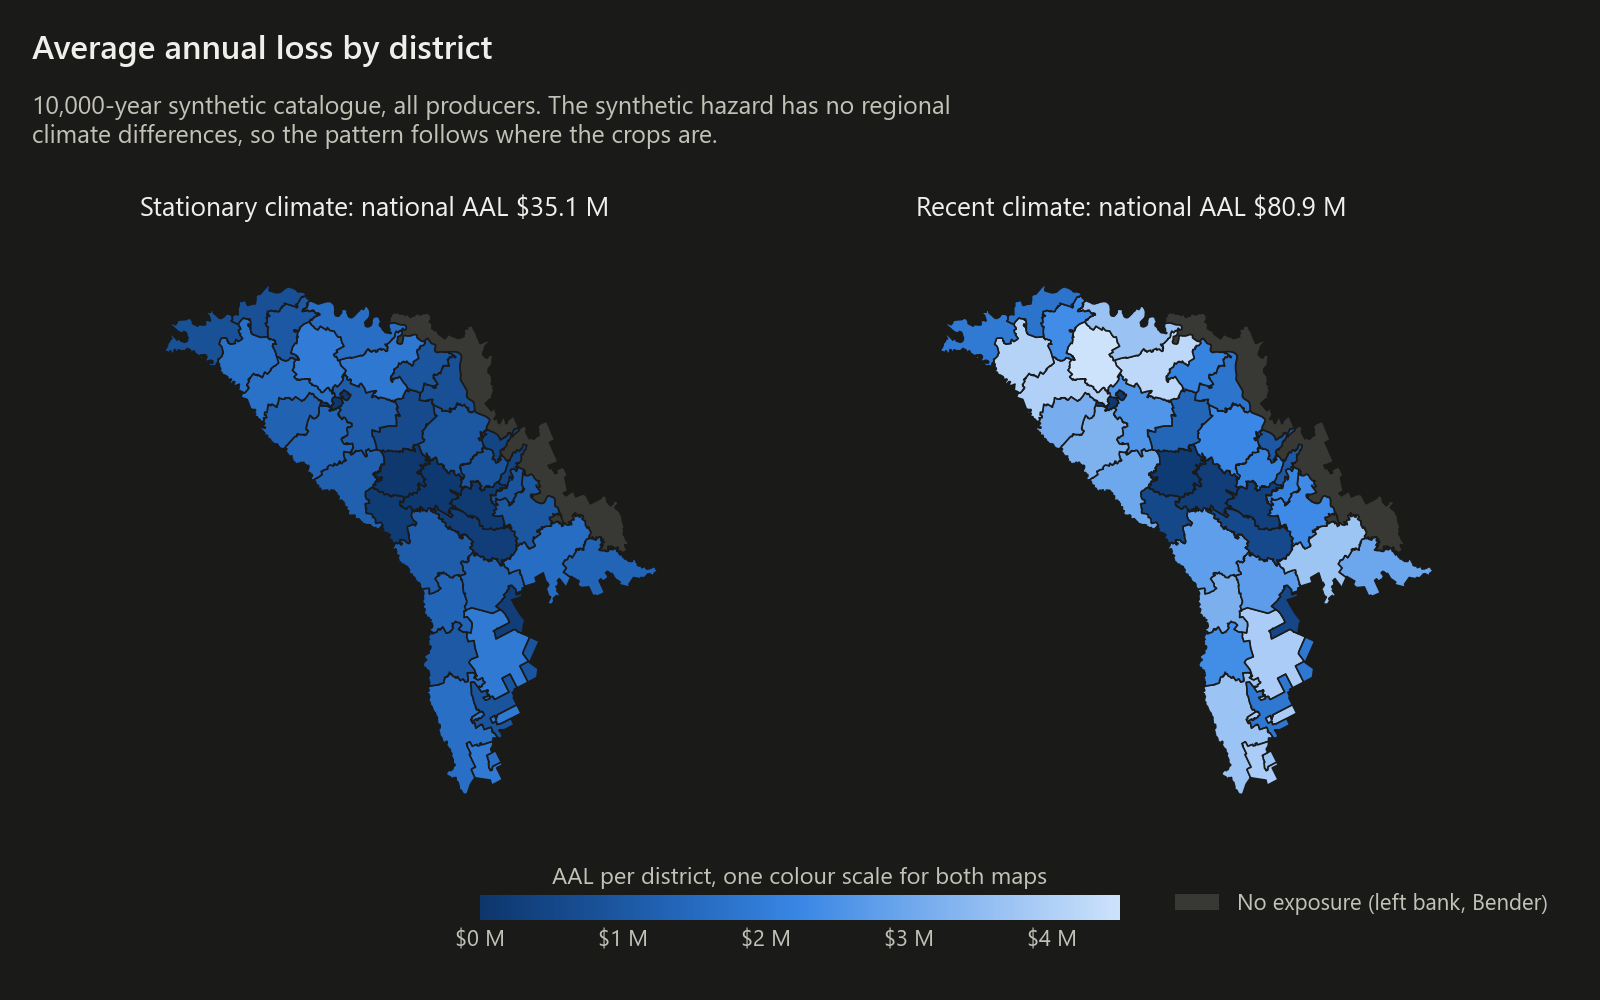
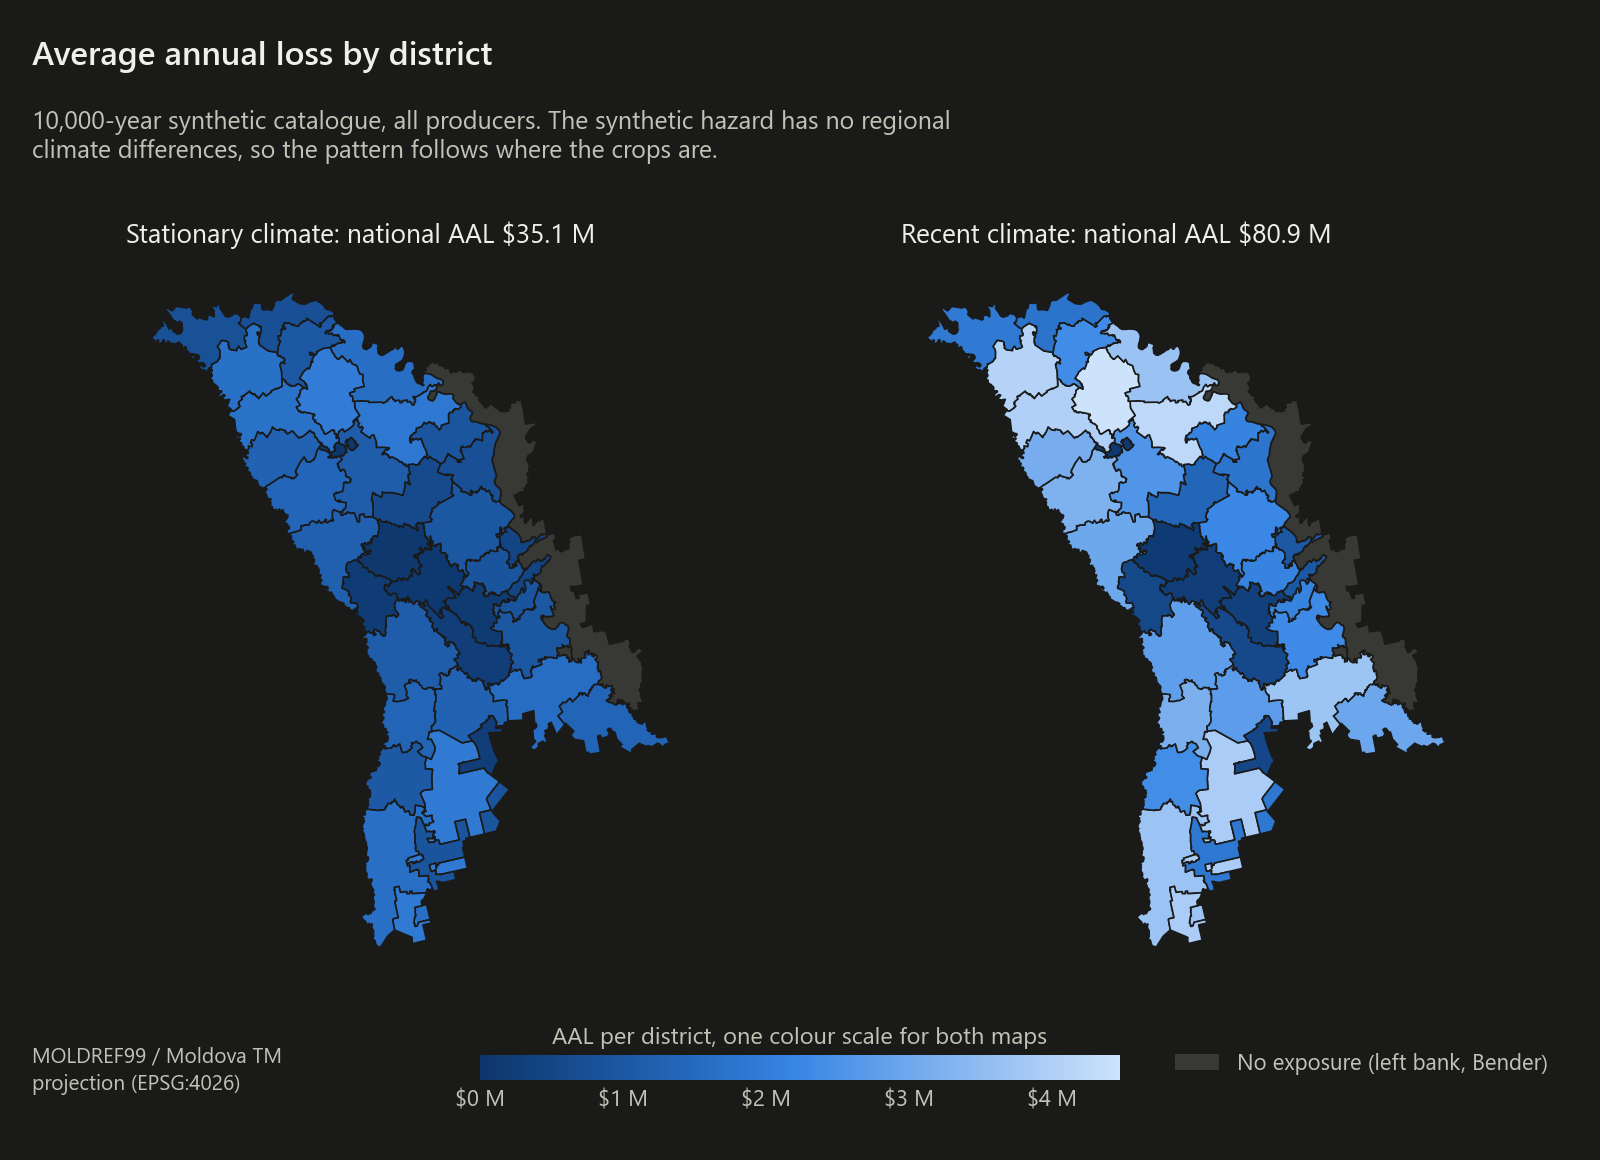
Draw the district map in MOLDREF99 / Moldova TM
The map used EPSG:3035, a Europe-wide projection centred on 10° E that
tilts Moldova by about 13°. It now uses EPSG:4026, the national
projection: transverse Mercator on 28.4° E, north-up across the
country, with scale error under 0.02 %. The figure names the projection.

Upright, Moldova is taller than it is wide, so the figure is taller
(5.8 in) and its title and colour-bar strip are placed in inches; the
maps grow and nothing else moves. A test checks the projection's
parameters through known coordinates.

District centroids for the hazard stay in equal-area EPSG:3035, so no
loss figure changes.

diff --git a/src/drought_loss/figures.py b/src/drought_loss/figures.py
@@ -27,6 +27,9 @@ from drought_loss import config, hazard, loss  # noqa: E402
 from drought_loss.synthetic import FloatArray  # noqa: E402
 
 DPI = 200
+# MOLDREF99 / Moldova TM: the national projection, transverse Mercator on 28.4° E, so north is
+# up across the country and shapes and distances are true to well under 0.1 %.
+MAP_CRS = 4026
 # The figures must come from the synthetic, public runs only.
 SOURCES = {
     "record": ("hazard_60y", "loss_60y"),
@@ -237,12 +240,16 @@ def plot_exceedance(
 def plot_district_map(
     districts: gpd.GeoDataFrame, stationary: pd.Series, recent: pd.Series, theme: Theme, path: Path
 ) -> None:
-    fig, axes = styled(theme, 8.0, 5.0, ncols=2)
-    fig.subplots_adjust(left=0.02, right=0.98, top=0.74, bottom=0.18, wspace=0.02)
+    # North-up, Moldova is taller than it is wide, so the maps get height; positions in inches.
+    height = 5.8
+    fig, axes = styled(theme, 8.0, height, ncols=2)
+    fig.subplots_adjust(
+        left=0.02, right=0.98, top=1 - 1.3 / height, bottom=0.9 / height, wspace=0.02
+    )
     m = 1e6
     vmax = float(max(stationary.max(), recent.max()) / m)
     cmap = LinearSegmentedColormap.from_list("sequential", list(theme.ramp))
-    projected = districts.to_crs(3035)
+    projected = districts.to_crs(MAP_CRS)
     for ax, aal, label in [
         (axes[0], stationary, "Stationary climate"),
         (axes[1], recent, "Recent climate"),
@@ -266,7 +273,7 @@ def plot_district_map(
             fontsize=9.5,
             loc="left",
         )
-    scale = fig.add_axes((0.30, 0.08, 0.40, 0.025))
+    scale = fig.add_axes((0.30, 0.4 / height, 0.40, 0.125 / height))
     bar = fig.colorbar(
         ScalarMappable(cmap=cmap, norm=Normalize(0, vmax)),
         cax=scale,
@@ -291,12 +298,22 @@ def plot_district_map(
             )
         ],
         loc="lower right",
-        bbox_to_anchor=(0.98, 0.065),
+        bbox_to_anchor=(0.98, 0.325 / height),
         frameon=False,
         fontsize=8,
     )
     for text in legend.get_texts():
         text.set_color(theme.ink_secondary)
+    fig.text(
+        0.02,
+        0.325 / height,
+        f"{projected.crs.name}\nprojection (EPSG:{MAP_CRS})",
+        ha="left",
+        va="bottom",
+        fontsize=7.5,
+        linespacing=1.4,
+        color=theme.ink_secondary,
+    )
     titles(
         fig,
         theme,

diff --git a/tests/test_figures.py b/tests/test_figures.py
@@ -18,6 +18,17 @@ def test_exceedance_points_give_the_kth_largest_a_return_period_of_n_over_k() ->
     np.testing.assert_allclose(periods, [4.0, 2.0, 4 / 3, 1.0])
 
 
+def test_the_map_projection_is_moldova_tm() -> None:
+    point = gpd.GeoSeries.from_xy([28.4, 28.8575], [47.0, 47.0105], crs="EPSG:4326")
+    projected = point.to_crs(figures.MAP_CRS)
+    assert projected.crs.name == "MOLDREF99 / Moldova TM"
+    # On the central meridian, 28.4° E, easting is exactly the 200 km false easting.
+    assert projected.x.iloc[0] == pytest.approx(200_000.0, abs=1e-6)
+    # Chisinau sits about 35 km east of it and 208 km north of the false origin.
+    assert projected.x.iloc[1] == pytest.approx(234_787, abs=1)
+    assert projected.y.iloc[1] == pytest.approx(208_203, abs=1)
+
+
 def write_provenance(folder: Path, spei_file: str) -> None:
     folder.mkdir(parents=True, exist_ok=True)
     (folder / hazard.PROVENANCE_FILENAME).write_text(
